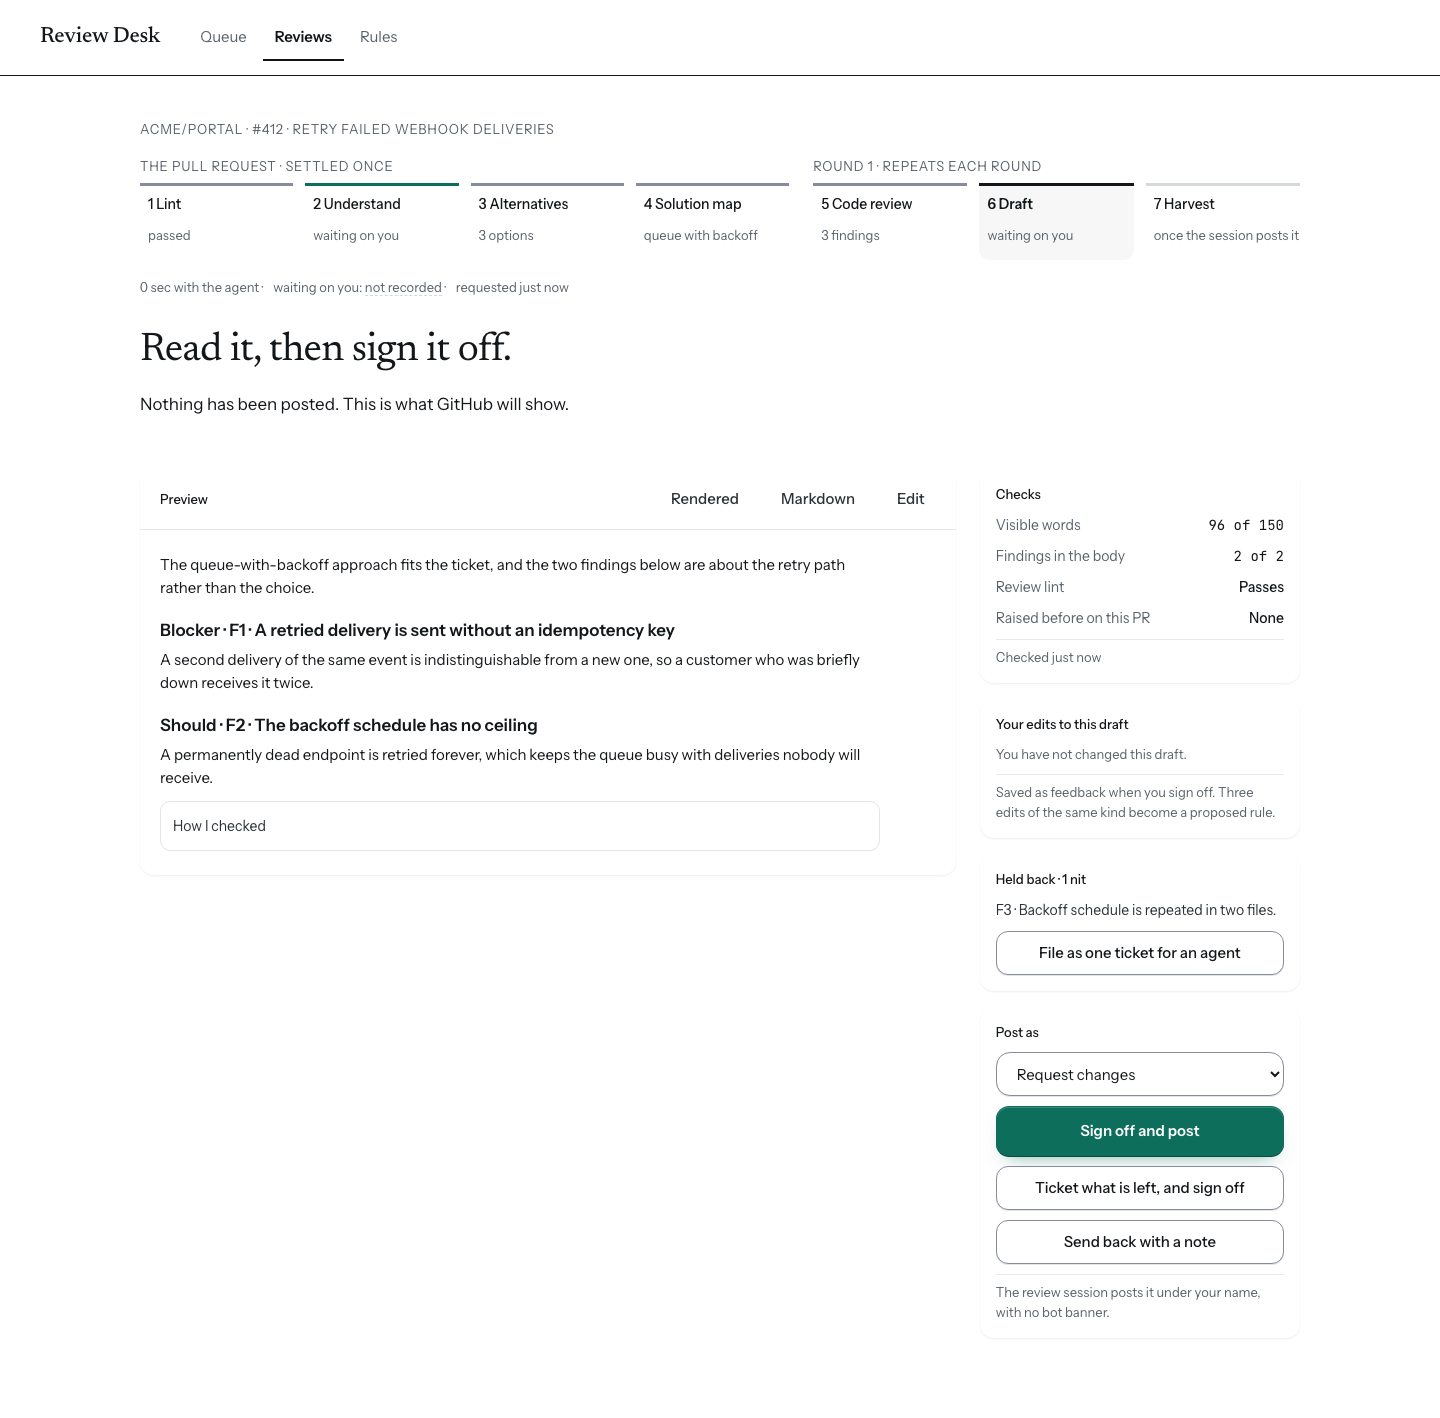
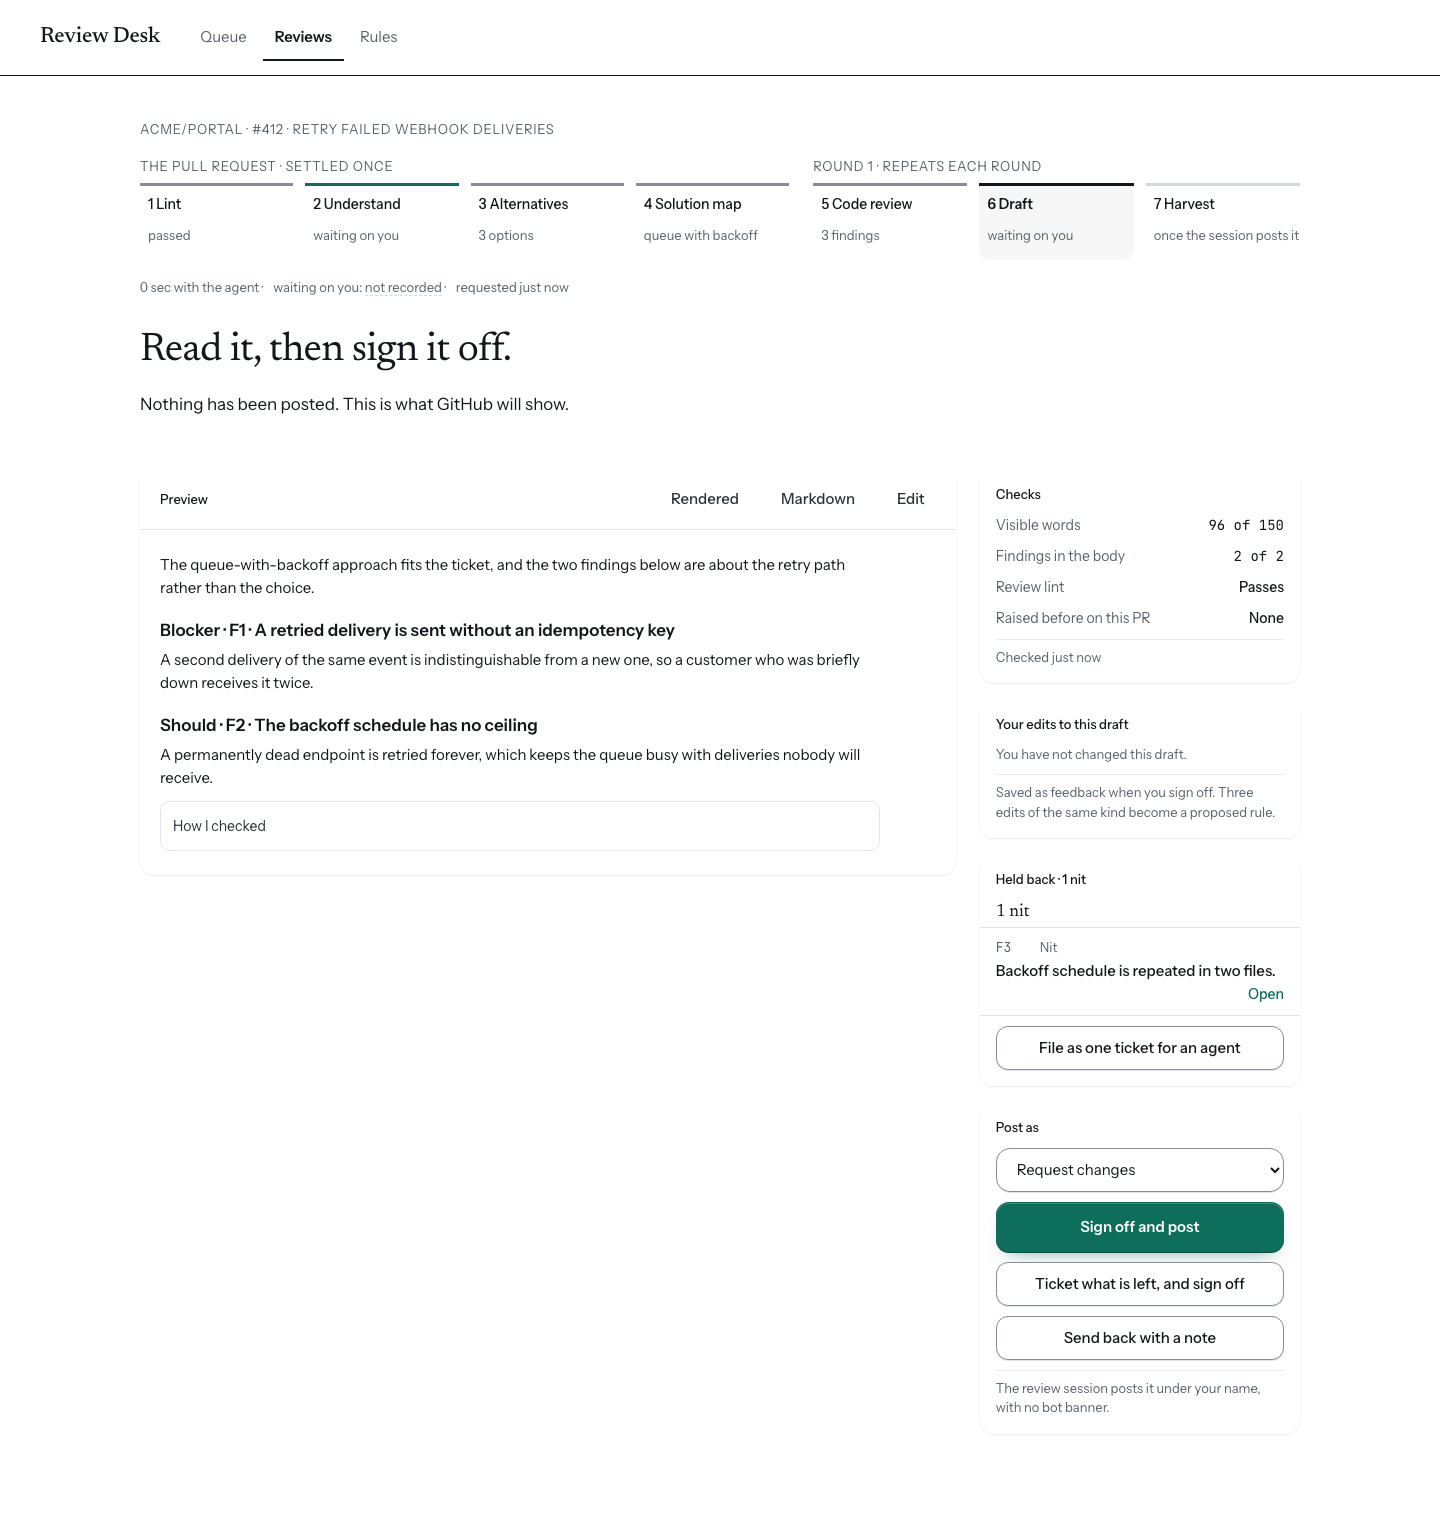
The pictures, including the two the old panel could not take [DEV-928]
Six new, produced by `pnpm run e2e:screenshots` off the same database, binary
and browser the acceptance suite asserts against.

* `dev-928-1-held-back` and `-390`: eight findings as rows, grouped "2
  questions" and "6 nits", each with its key, its severity as a word and its
  title — and not one of the eight claims on the page.
* `dev-928-2-row-open` and `-390`: the 61-word claim open in place, under the
  row that opened it, with where it is in the code.
* `dev-928-3-diagram-larger` and `dev-928-4-diagram-zoomed`: a drawing over
  the page at the size of the window, and the same drawing at 169% with the
  bar reading the scale. At 169 rather than at the fit, because a picture of
  the fit says nothing about whether it can be zoomed.

Seven existing pictures changed, and each for a reason that is in this branch:
the queue gained the fourth review's row, and the draft and code review pages
redrew with the held-back panel as rows. `dev-885-4-understand-old-brief`
moved because its diagram is a `<button>` now with "Opens larger" under it.

diff --git a/web/e2e/screenshots.spec.ts b/web/e2e/screenshots.spec.ts
@@ -21,7 +21,8 @@ import { readAddresses } from './harness'
 
 const addresses = readAddresses()
 
-const { seeded, empty, reviewId, waivedReviewId, structuredReviewId } = addresses
+const { seeded, empty, reviewId, waivedReviewId, structuredReviewId, heldBackReviewId }
+  = addresses
 
 const INTO = resolve('../docs/screenshots')
 
@@ -47,7 +48,7 @@ test.describe.configure({ mode: 'serial' })
 test.describe('a seeded database', () => {
   test('the four pages', async ({ page }) => {
     await page.goto(seeded)
-    await expect(page.getByRole('heading', { name: '2 reviews need you' })).toBeVisible()
+    await expect(page.getByRole('heading', { name: '3 reviews need you' })).toBeVisible()
     await shot(page, 'seeded-1-queue')
 
     /*
@@ -80,7 +81,7 @@ test.describe('a seeded database', () => {
      */
     await page.setViewportSize({ width: 390, height: 844 })
     await page.goto(seeded)
-    await expect(page.getByRole('heading', { name: '2 reviews need you' })).toBeVisible()
+    await expect(page.getByRole('heading', { name: '3 reviews need you' })).toBeVisible()
     await shot(page, 'seeded-6-queue-390')
     await page.setViewportSize({ width: 1440, height: 900 })
 
@@ -284,6 +285,64 @@ test.describe('the solution as a table', () => {
       await shot(page, `dev-919-2-row-open${suffix}`)
     }
     await page.setViewportSize({ width: 1440, height: 900 })
+  })
+})
+
+/**
+ * The draft page's aside, and a drawing opened larger. DEV-928's three changes, in pictures.
+ *
+ * **Both widths for the panel, because the complaint was about a width.** Eight findings
+ * were printed as 41-to-63-word paragraphs in a column about 290 pixels wide; a picture of
+ * eight rows in that column is the measurement, and the acceptance suite's own assertion
+ * that nothing leaves the card is the proof. The fourth seeded review is the one that holds
+ * eight of them.
+ */
+test.describe('the draft page, after DEV-928', () => {
+  test('the held-back rows, closed and open, at both widths', async ({ page }) => {
+    for (const [width, suffix] of [[1440, ''], [390, '-390']] as const) {
+      await page.setViewportSize({ width, height: width === 390 ? 844 : 900 })
+
+      await page.goto(`${seeded}reviews/${heldBackReviewId}/draft`)
+      await expect(page.locator('h1')).toBeVisible()
+      await expect(page.locator('.held-row')).toHaveCount(8)
+      await shot(page, `dev-928-1-held-back${suffix}`)
+
+      /*
+       * The row with the longest claim open — 61 words, which is what the panel used to
+       * print eight of — beside the row whose line the page had to cut.
+       */
+      await page.locator('.held-row').filter({ hasText: 'F6' }).first().click()
+      await expect(page.locator('.held-opened')).toHaveCount(1)
+      await shot(page, `dev-928-2-row-open${suffix}`)
+    }
+    await page.setViewportSize({ width: 1440, height: 900 })
+  })
+
+  /**
+   * A drawing over the page, zoomed.
+   *
+   * At 169%, because 100% is the fit and a picture of the fit says nothing about whether it
+   * can be zoomed. The bar reads the scale, which is the one thing in the picture that
+   * cannot be mistaken for the inline figure.
+   */
+  test('a drawing opened larger, and zoomed', async ({ page }) => {
+    await page.setViewportSize({ width: 1440, height: 900 })
+    await page.goto(`${seeded}reviews/${heldBackReviewId}/draft`)
+    await expect(page.locator('h1')).toBeVisible()
+    await page.waitForLoadState('networkidle')
+
+    await page.locator('button.canvas').first().click()
+    const sheet = page.getByRole('dialog')
+    await expect(sheet).toBeVisible()
+    await shot(page, 'dev-928-3-diagram-larger')
+
+    await sheet.getByRole('button', { name: 'Zoom in' }).click()
+    await sheet.getByRole('button', { name: 'Zoom in' }).click()
+    await expect(sheet.locator('.reading')).toContainText('169%')
+    await shot(page, 'dev-928-4-diagram-zoomed')
+
+    await page.keyboard.press('Escape')
+    await expect(page.getByRole('dialog')).toHaveCount(0)
   })
 })
 
